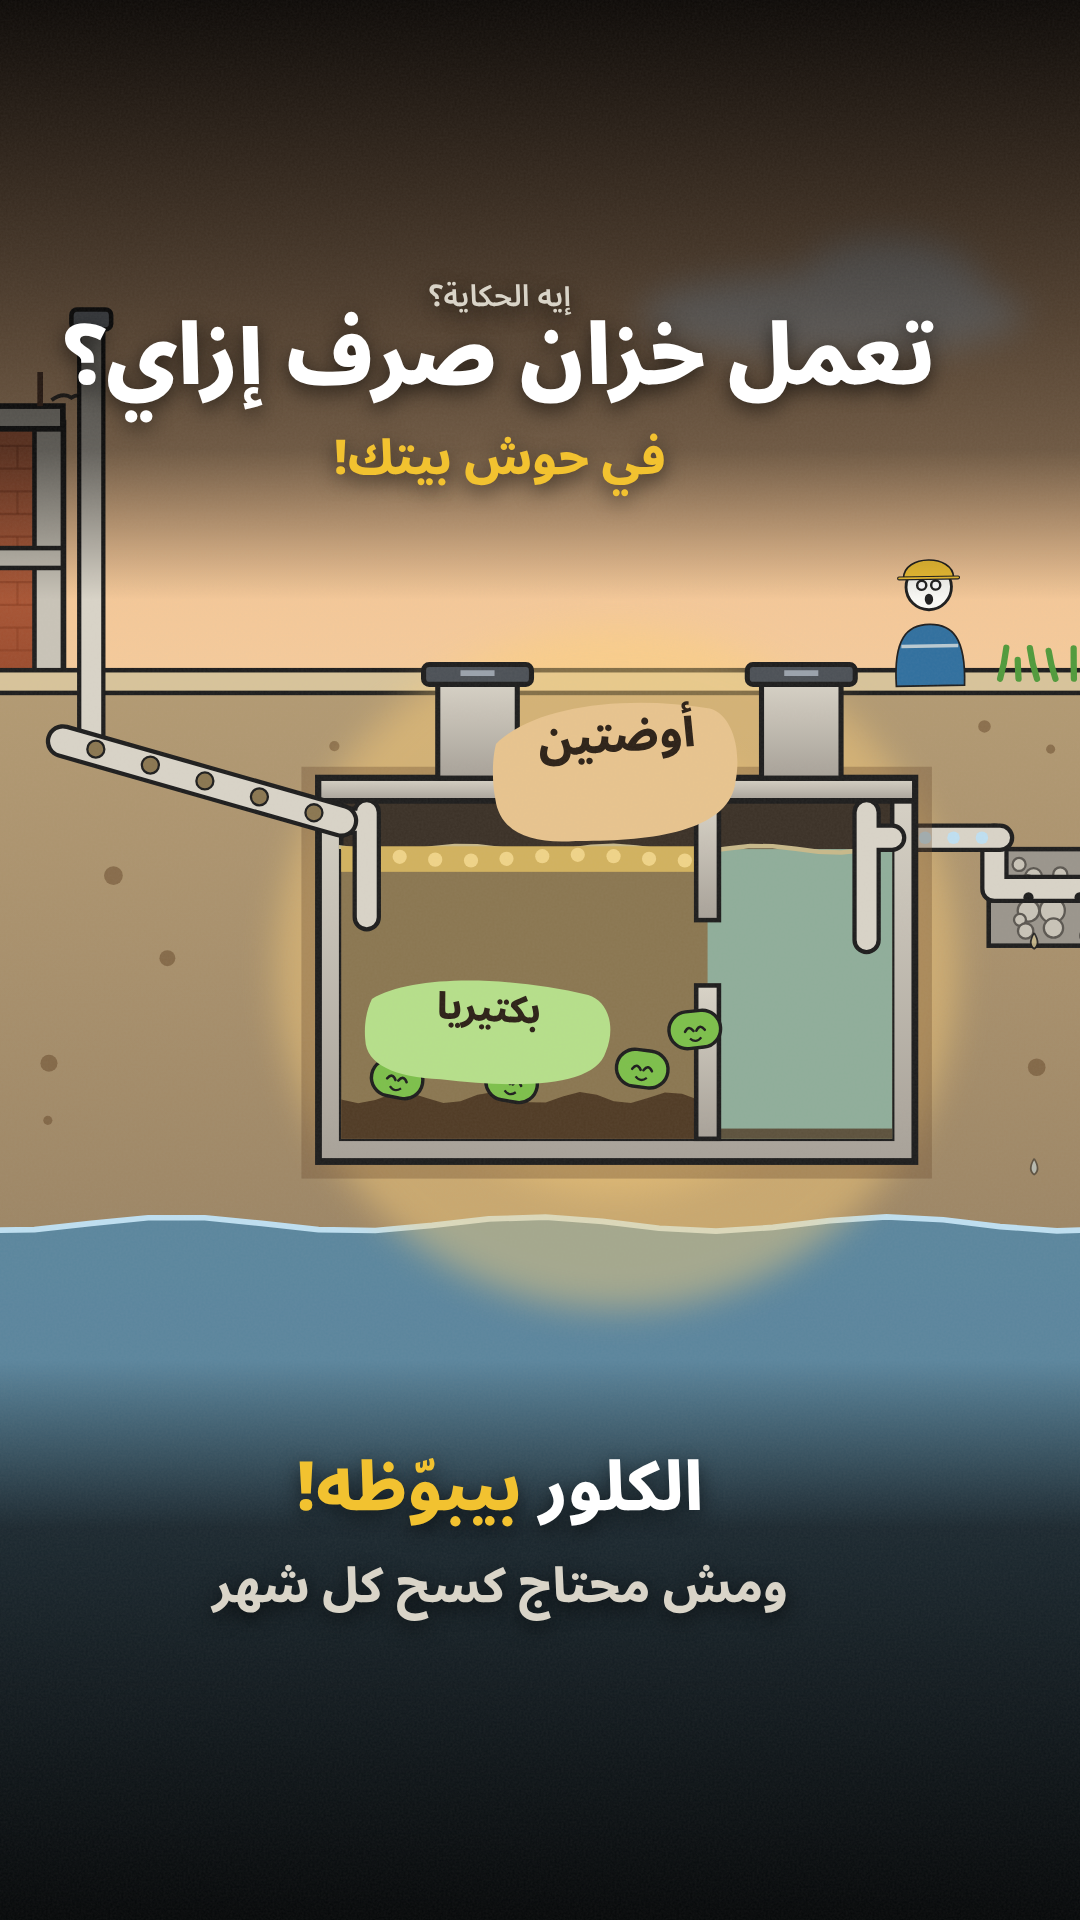
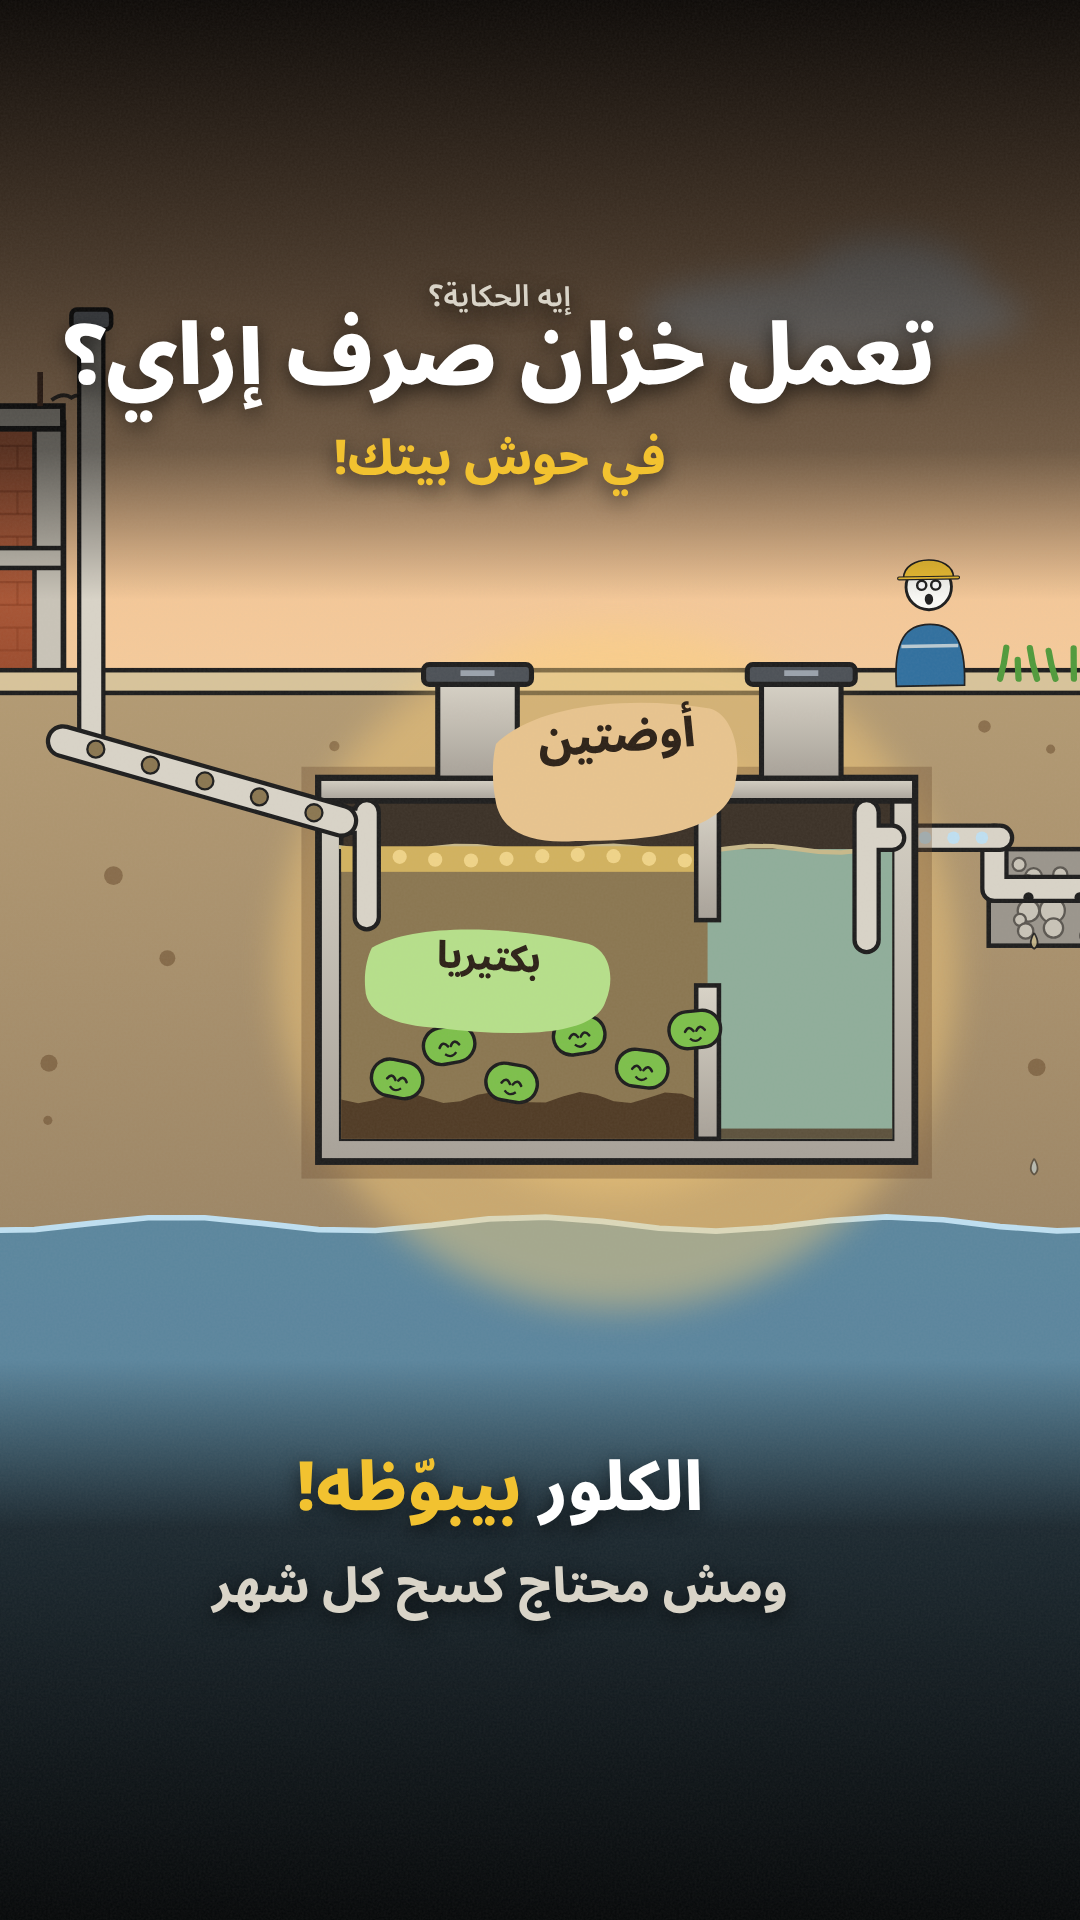
Septic-tank cover: bacteria tag above the bacteria
Claude-Session: https://claude.ai/code/session_016TN7FM4zfb2Rw2kjjjbcs6

Changed region(s): [[0.3361, 0.4688, 0.5806, 0.5625]]

diff --git a/brand/eh-elhekaya/cover-septic-tank-tiktok.html b/brand/eh-elhekaya/cover-septic-tank-tiktok.html
@@ -95,7 +95,7 @@
     s += P.courtyard(t, { sky: "dusk" });
     s += '<circle cx="345" cy="232" r="120" fill="#ffd27a" opacity=".45" filter="url(#soft)"/><circle cx="345" cy="232" r="80" fill="#ffd27a" opacity=".35" filter="url(#soft)"/>';
     s += P.build(t, A) + P.hardHat(455, 106, 0.2, t, "shock", {});
-    s += P.tag("أوضتين", 345, 150, 9, 0, -4, 16) + P.tag("بكتيريا", 300, 246, 9, 0, 3, 13, "#b6e08a");
+    s += P.tag("أوضتين", 345, 150, 9, 0, -4, 16) + P.tag("بكتيريا", 300, 228, 9, 0, 3, 13, "#b6e08a");
     s += '</g>';
     s += '<defs><linearGradient id="fadeT" x1="0" y1="0" x2="0" y2="1"><stop offset="0" stop-color="#000" stop-opacity=".95"/><stop offset=".75" stop-color="#000" stop-opacity=".55"/><stop offset="1" stop-color="#000" stop-opacity="0"/></linearGradient>' +
          '<linearGradient id="fadeB" x1="0" y1="0" x2="0" y2="1"><stop offset="0" stop-color="#000" stop-opacity="0"/><stop offset=".3" stop-color="#000" stop-opacity=".7"/><stop offset="1" stop-color="#000" stop-opacity=".95"/></linearGradient></defs>';
